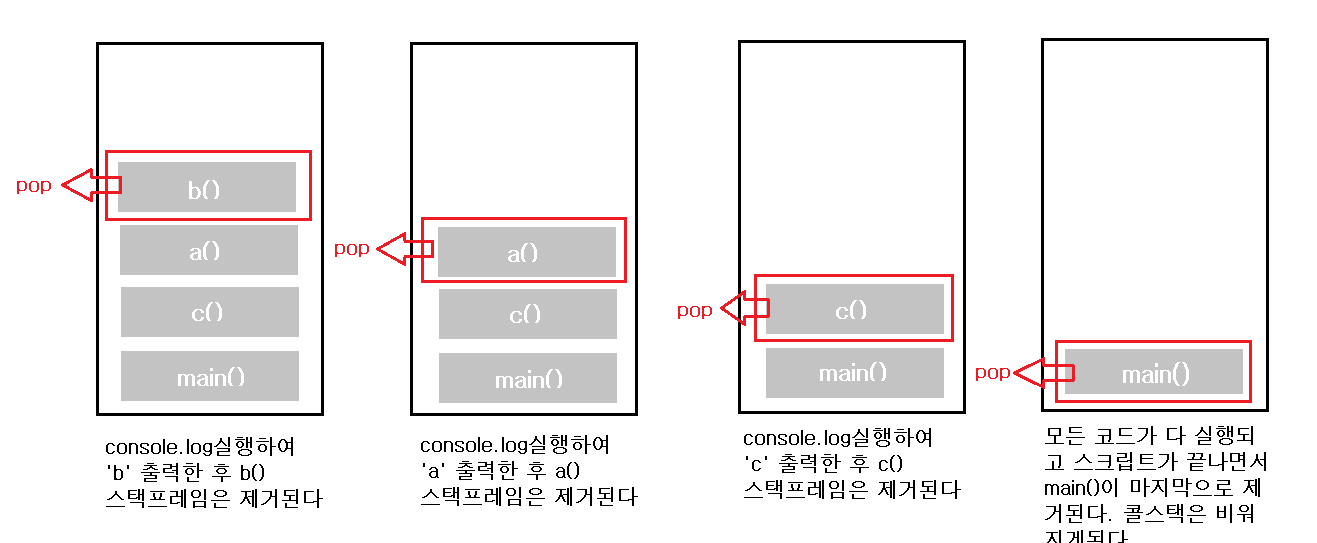
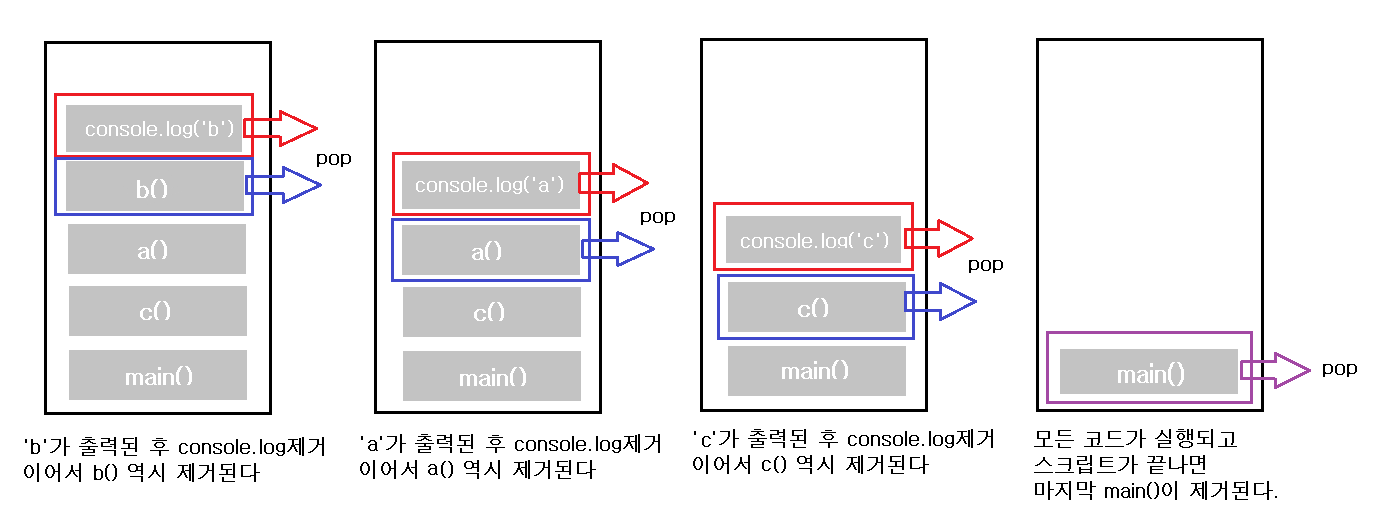
Update callstack.md

Changed region(s): [[0.0, 0.1527, 0.9962, 1.0], [0.2802, 0.0611, 0.9651, 0.0916], [0.0311, 0.0611, 0.2491, 0.0916]]

diff --git a/JavaScript/33Concepts/callstack.md b/JavaScript/33Concepts/callstack.md
@@ -39,8 +39,6 @@ c(); //1
 ![callstack1](../../image/callstack1.png)
 ![callstack2](../../image/callstack2.png)
 
-> 위 이미지에서 엄밀하게 표현하자면 `console.log('a')`같은 부분도 콜스택에 쌓이고 실행 된 후에 콜스택에서 제거된다.
-
 -   `Uncaught RangeError: Maximum call stack size exceeded` : 이런 에러가 뜨기도 한다. 보통 재귀적구현을 할 때 재귀탈출조건을 잘못 설계해서 콜스택 사이즈를 넘어서는 경우 나타난다.
 
 ### Memory Heap
@@ -53,12 +51,13 @@ c(); //1
 
 ### Web APIs
 
--   브라우저에서 제공하는 API이다. 하지만 자바스크립트에서 호출할 수 있는 스레드를 지원한다.
+-   비동기이벤트들을 다루기 위한 브라우저에서 제공하는 API이다.
+-
 
 ### Event Loop(이벤트루프)
 
--   싱글스레드인 자바스크립트 엔진을 비동기적으로 작동하게 만들어준 메카니즘
--   콜스택과 큐사이에서 콜스택이 비어있는 경우 큐에 있는 콜백을 콜스택으로 전달해주는 역할을 한다. 그렇기 때문에 마치 동기적으로 작동하는 콜스택이 비동기적으로 작동하게끔 만들어준다.
+-   싱글스레드인 자바스크립트 엔진을 비동기적으로 작동하게 만들어주는 방식
+-   콜스택과 큐사이에서 콜스택이 비어있는 경우 큐에 있는 콜백을 콜스택으로 전달해주는 역할을 한다. 그렇기 때문에 동기적으로 작동하는 콜스택이 마치 비동기적으로 작동하게끔 만들어준다.
 
 # More
 
